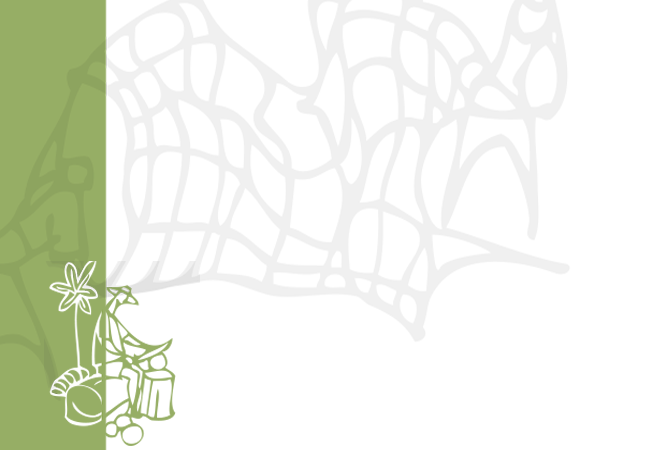
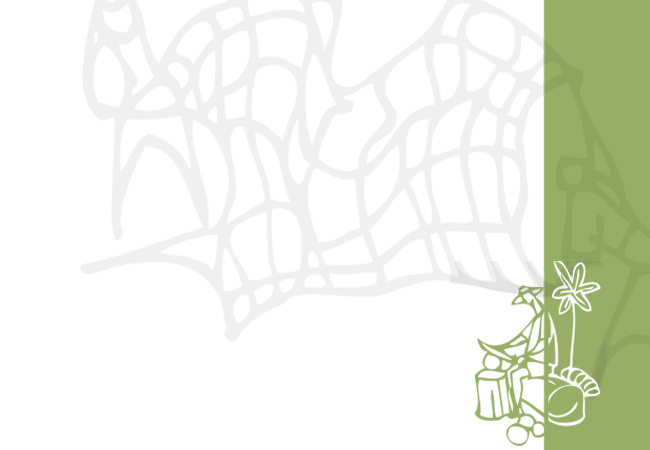
Ajuste na imagem da single de publicacoes

diff --git a/wp-content/themes/polis-theme/style.css b/wp-content/themes/polis-theme/style.css
@@ -639,7 +639,7 @@ object {
 	background:transparent url(img/areas/bg-inclusao-e-sustentabilidade.png) bottom left no-repeat;
 }
 .content-single-areas.bg-default {
-	background-color: transparent;	
+	background:transparent url(img/areas/bg-single-areas-default.jpg) bottom right no-repeat;
 }
 .area-main .reforma-urbana-icon{
 	 width:167px;
